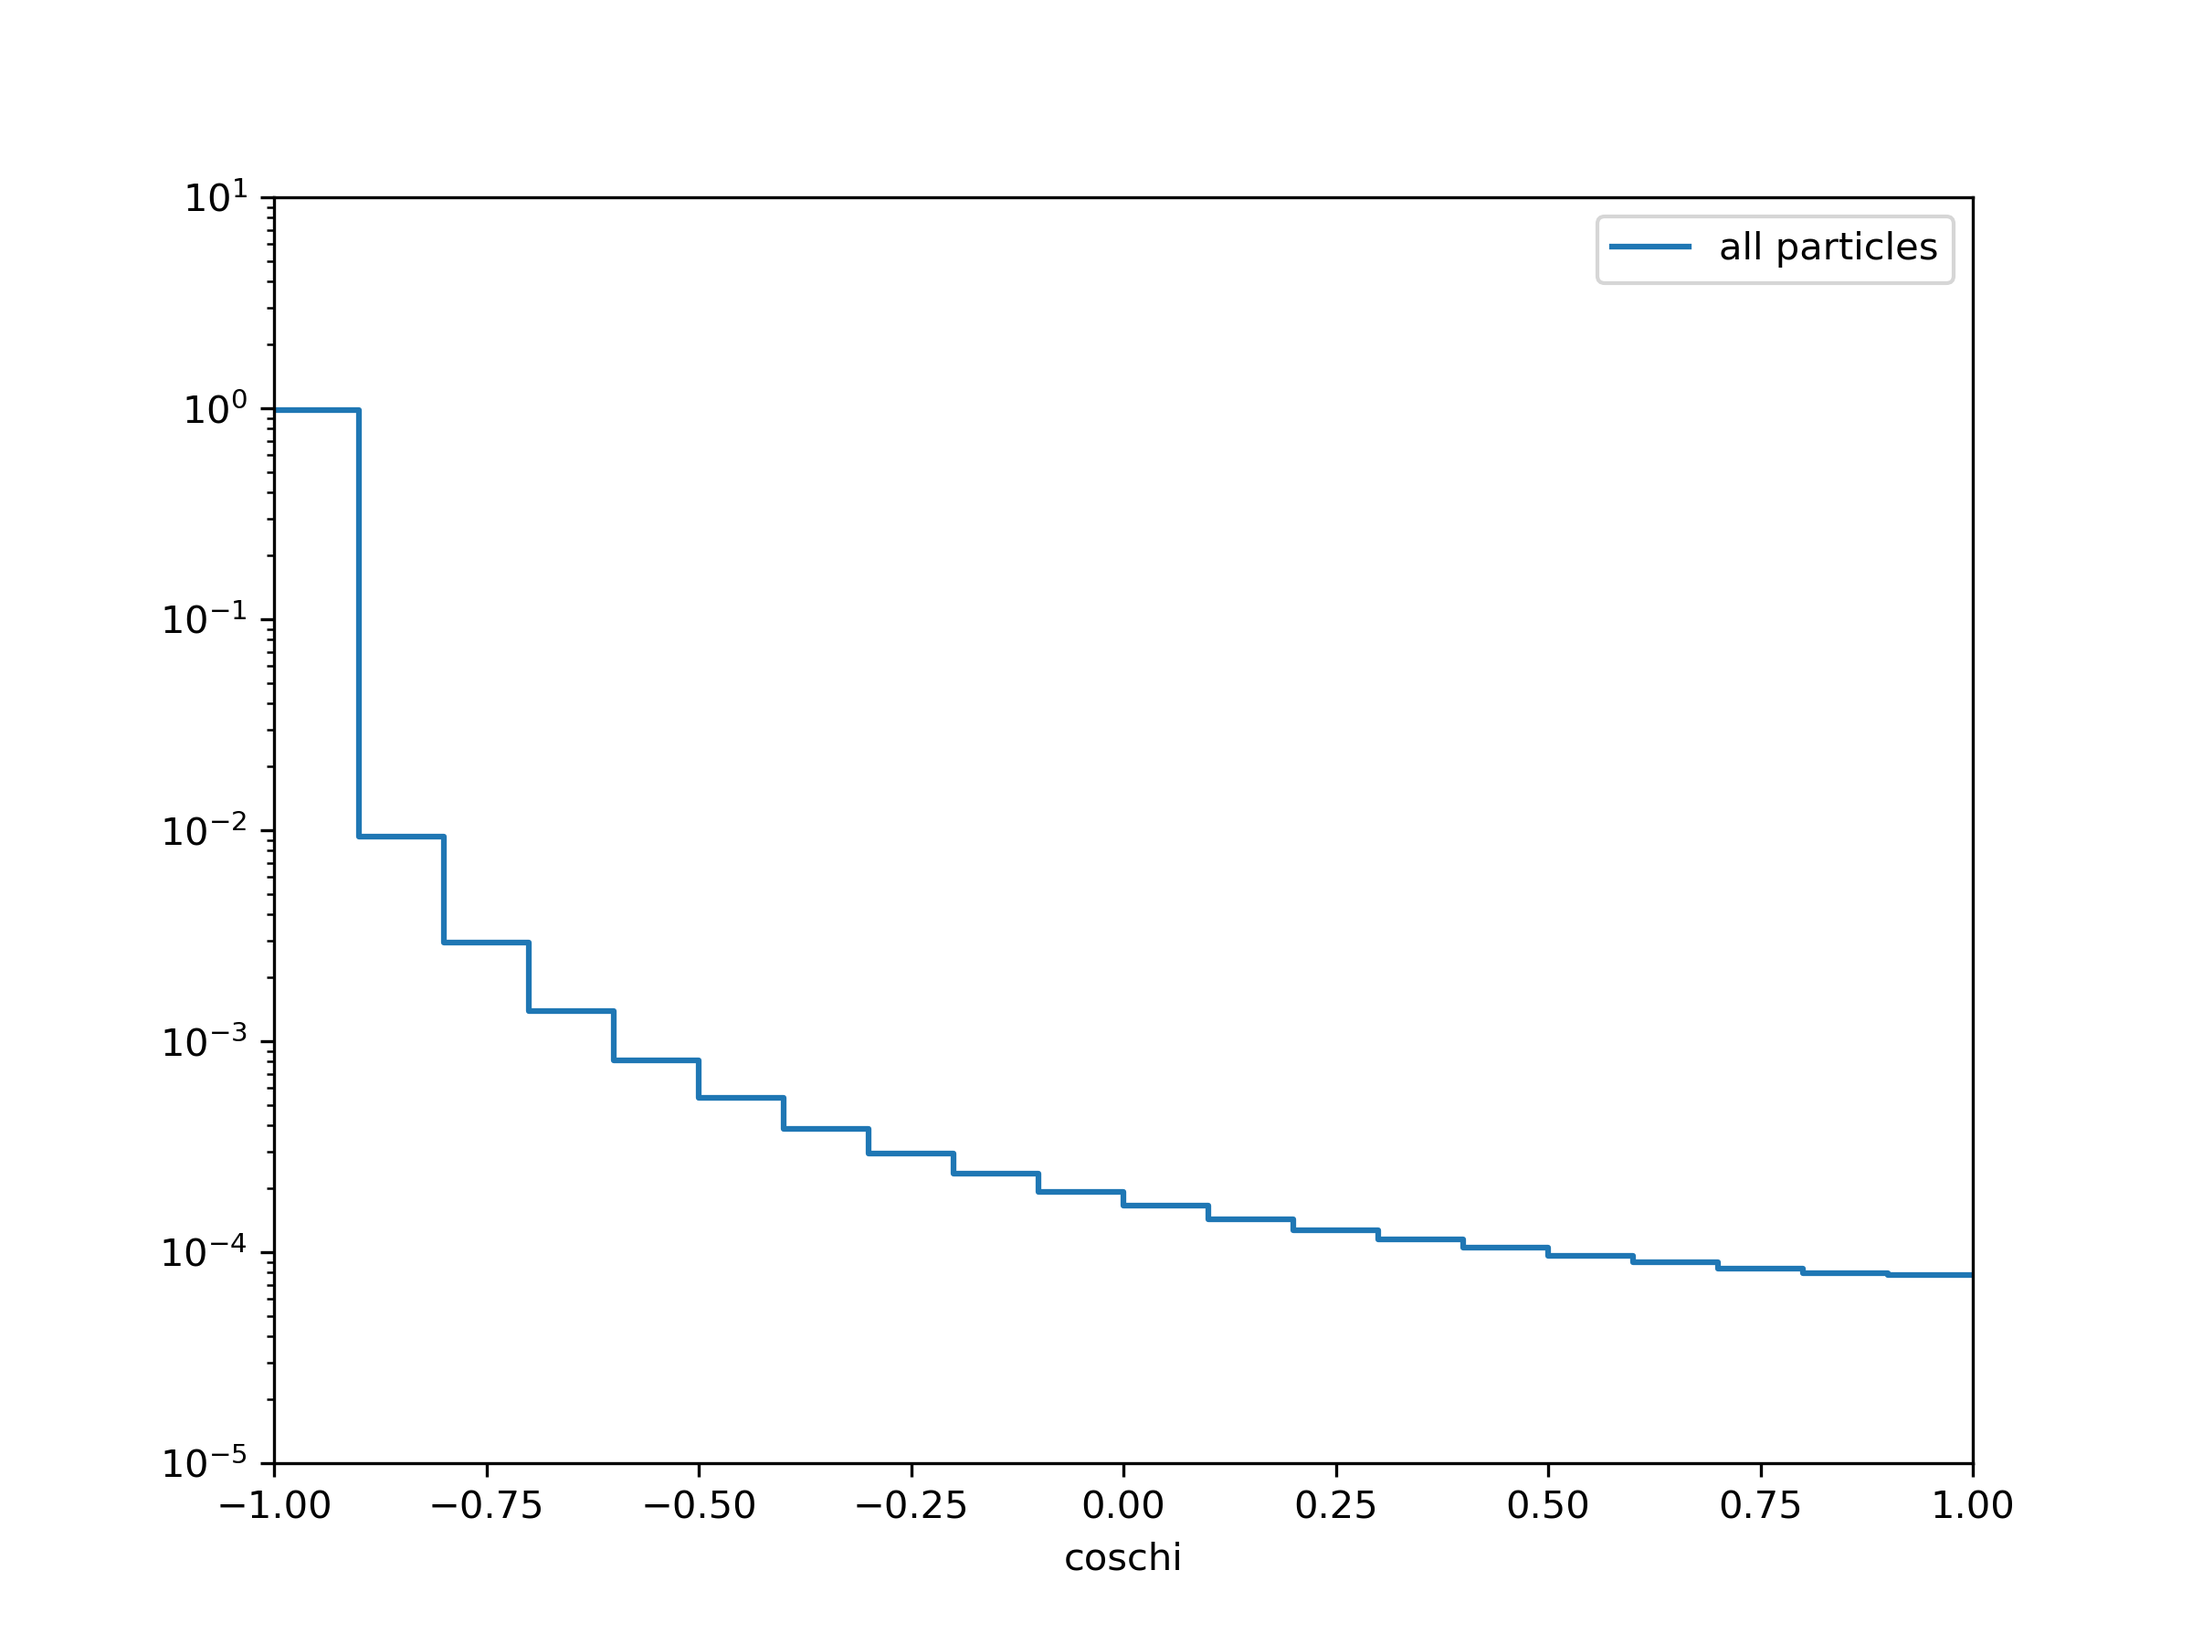
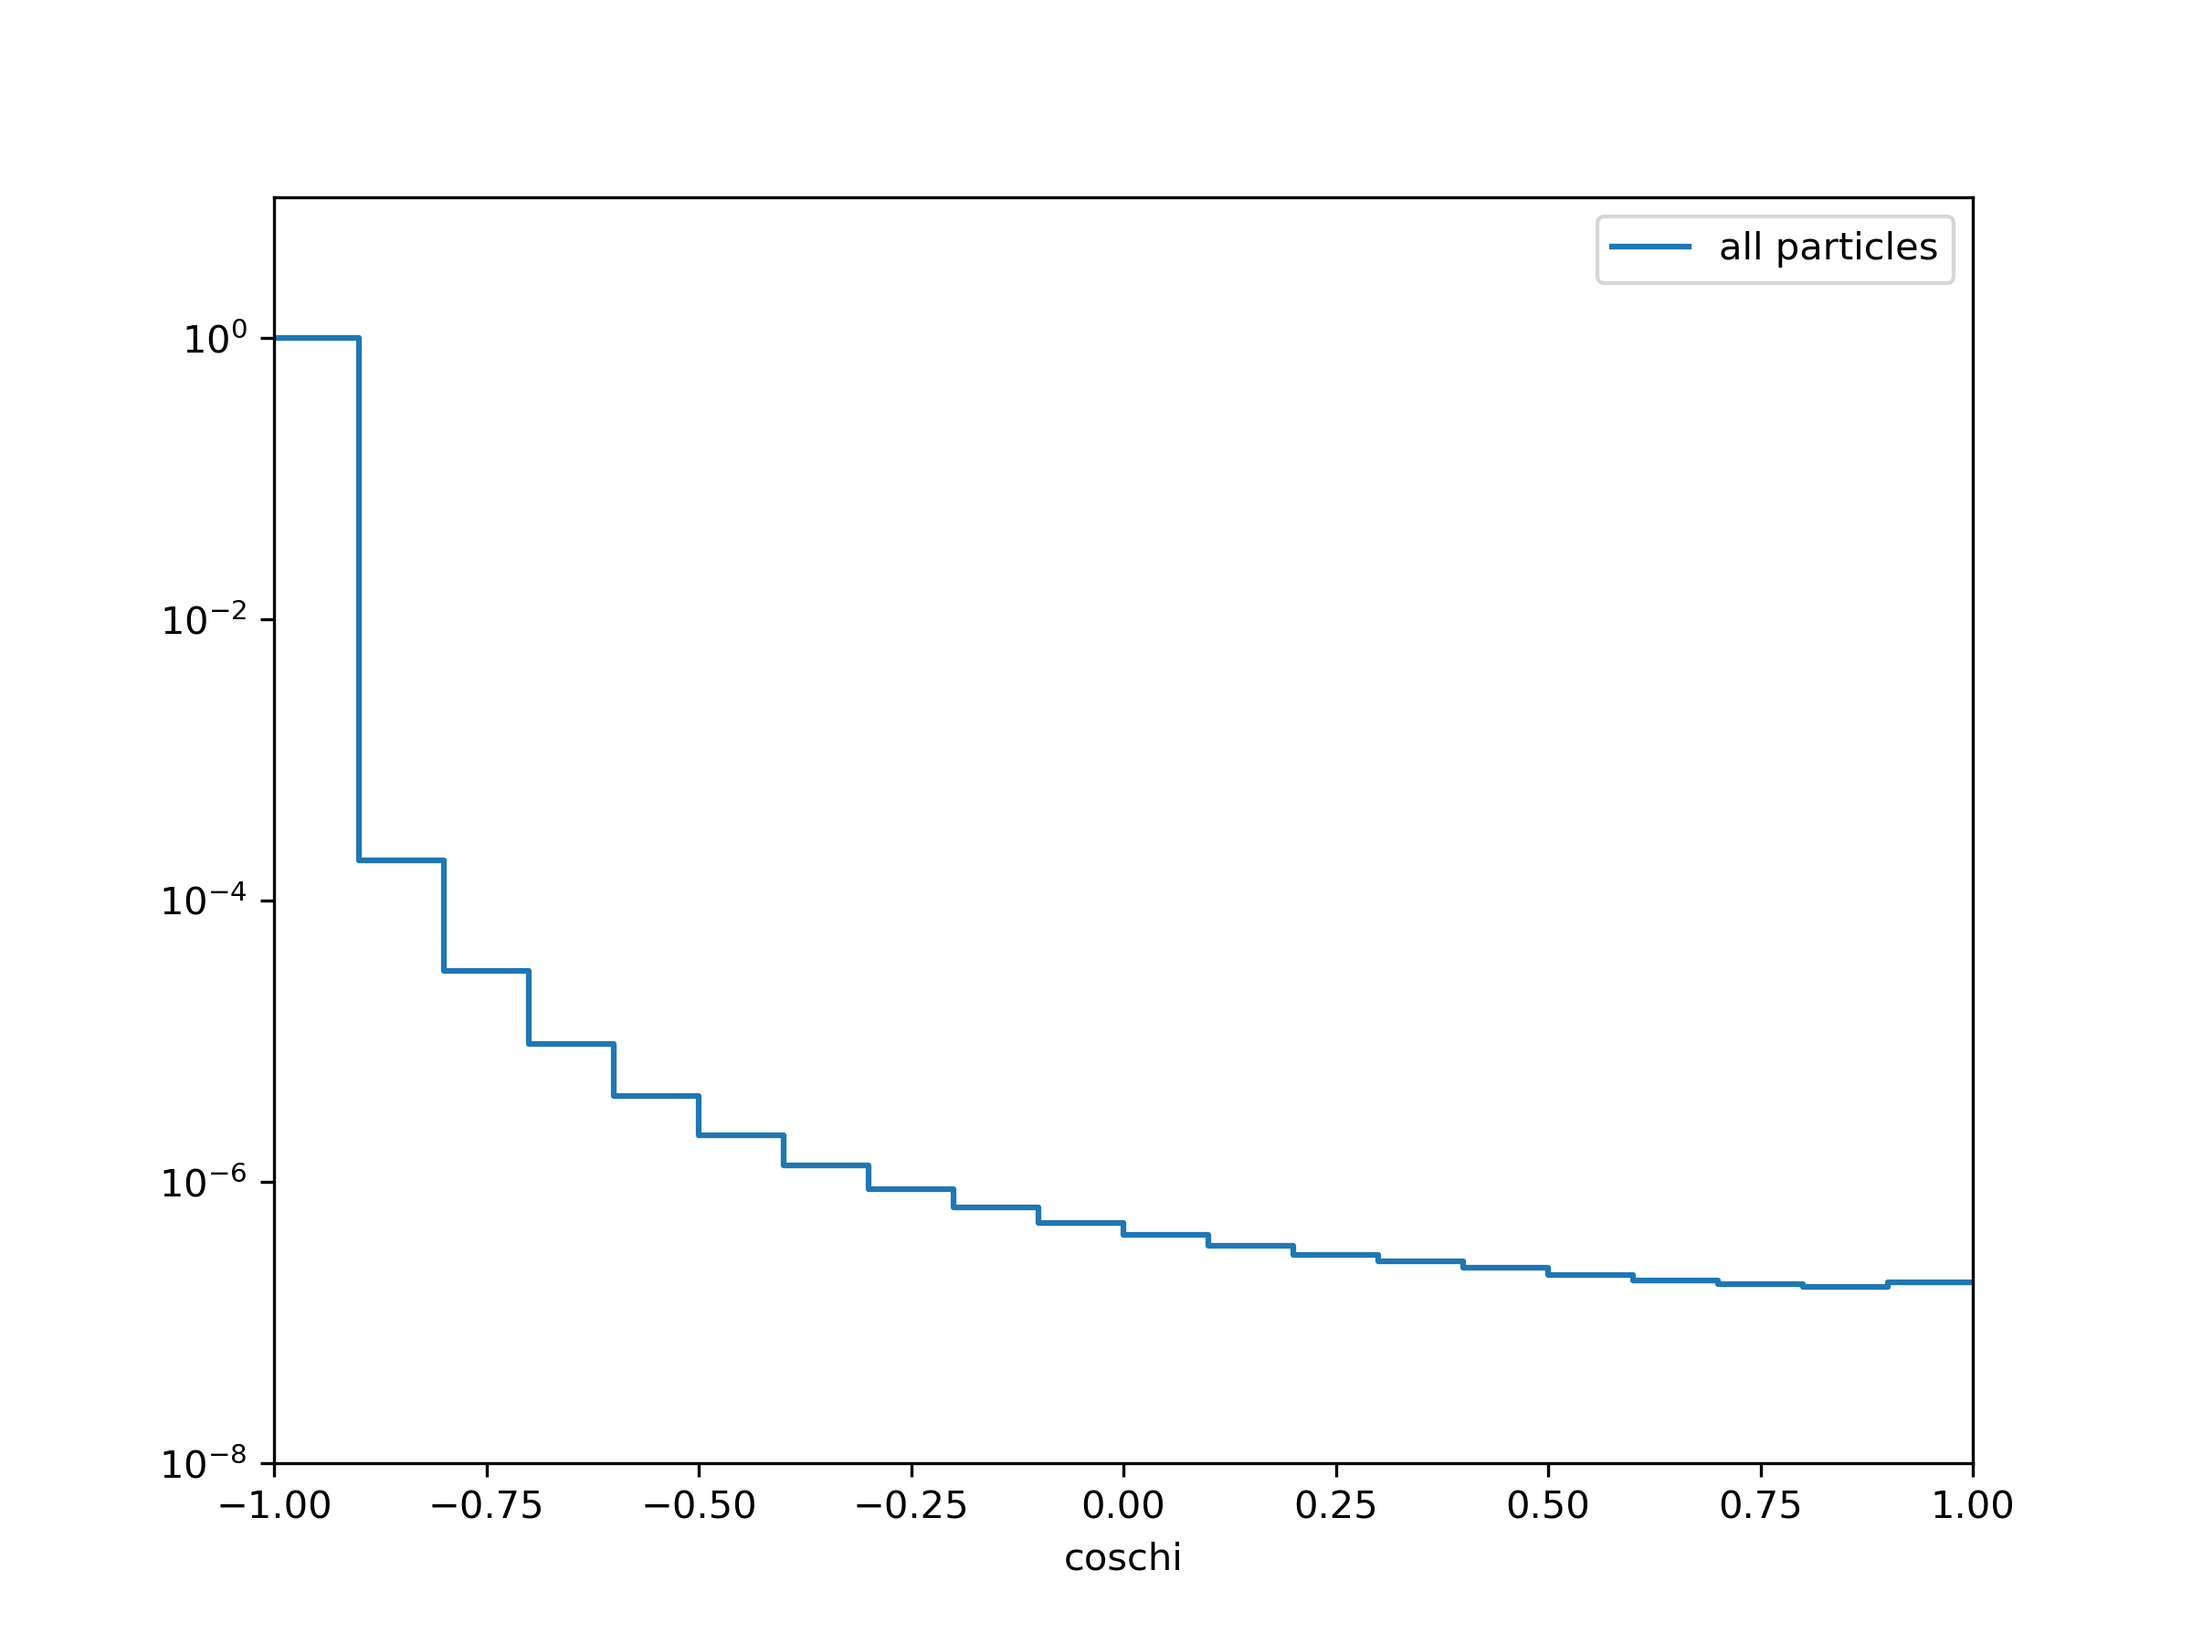
update

diff --git a/QEC/calcQEC/calQEC.cpp b/QEC/calcQEC/calQEC.cpp
@@ -46,7 +46,6 @@ int main(int argc, char* argv[]) {
     tree->SetBranchAddress("ch_energy", &ch_energy);
 
     // construct histograms
-    TH2D* h_qec = new TH2D("QEC", "cos#chi vs E/M;cos#chi;E/M", 50, -1, 1, 50, 0, 5);
     TH1D* h_coschi = new TH1D("coschi", "cos#chi;cos#chi;Counts", 20, -1, 1); 
 
     Long64_t nEntries = tree->GetEntries();
@@ -73,14 +72,12 @@ int main(int argc, char* argv[]) {
         for (auto &ch : chs) {
             double coschi = jpsi.Vect().Dot(ch.Vect()) / (jpsi.Vect().Mag() * ch.Vect().Mag());
             double ec = ch.E() / jpsi.M();
-            h_qec->Fill(coschi, ec);
-            h_coschi->Fill(coschi);
+            h_coschi->Fill(coschi, ec);
         }
     }
 
 
     TFile* outputFile = new TFile(outputFileName, "RECREATE");
-    h_qec->Write();
     h_coschi->Write();
     outputFile->Close();
 

diff --git a/QEC/plot/draw.py b/QEC/plot/draw.py
@@ -14,10 +14,10 @@ plt.step(edges, np.append(values, values[-1]), where='post', label="all particle
 
 plt.xlabel("coschi")
 plt.yscale("log")
-plt.ylim(1e-5, 10)
+plt.ylim(1e-8, 10)
 plt.xlim(-1, 1)
 plt.legend()
 plt.savefig("coschi.png", dpi=300)
 plt.close()
 
-print("Saved figure as coschi.png")
+print("Saved figure as coschi.png") 
